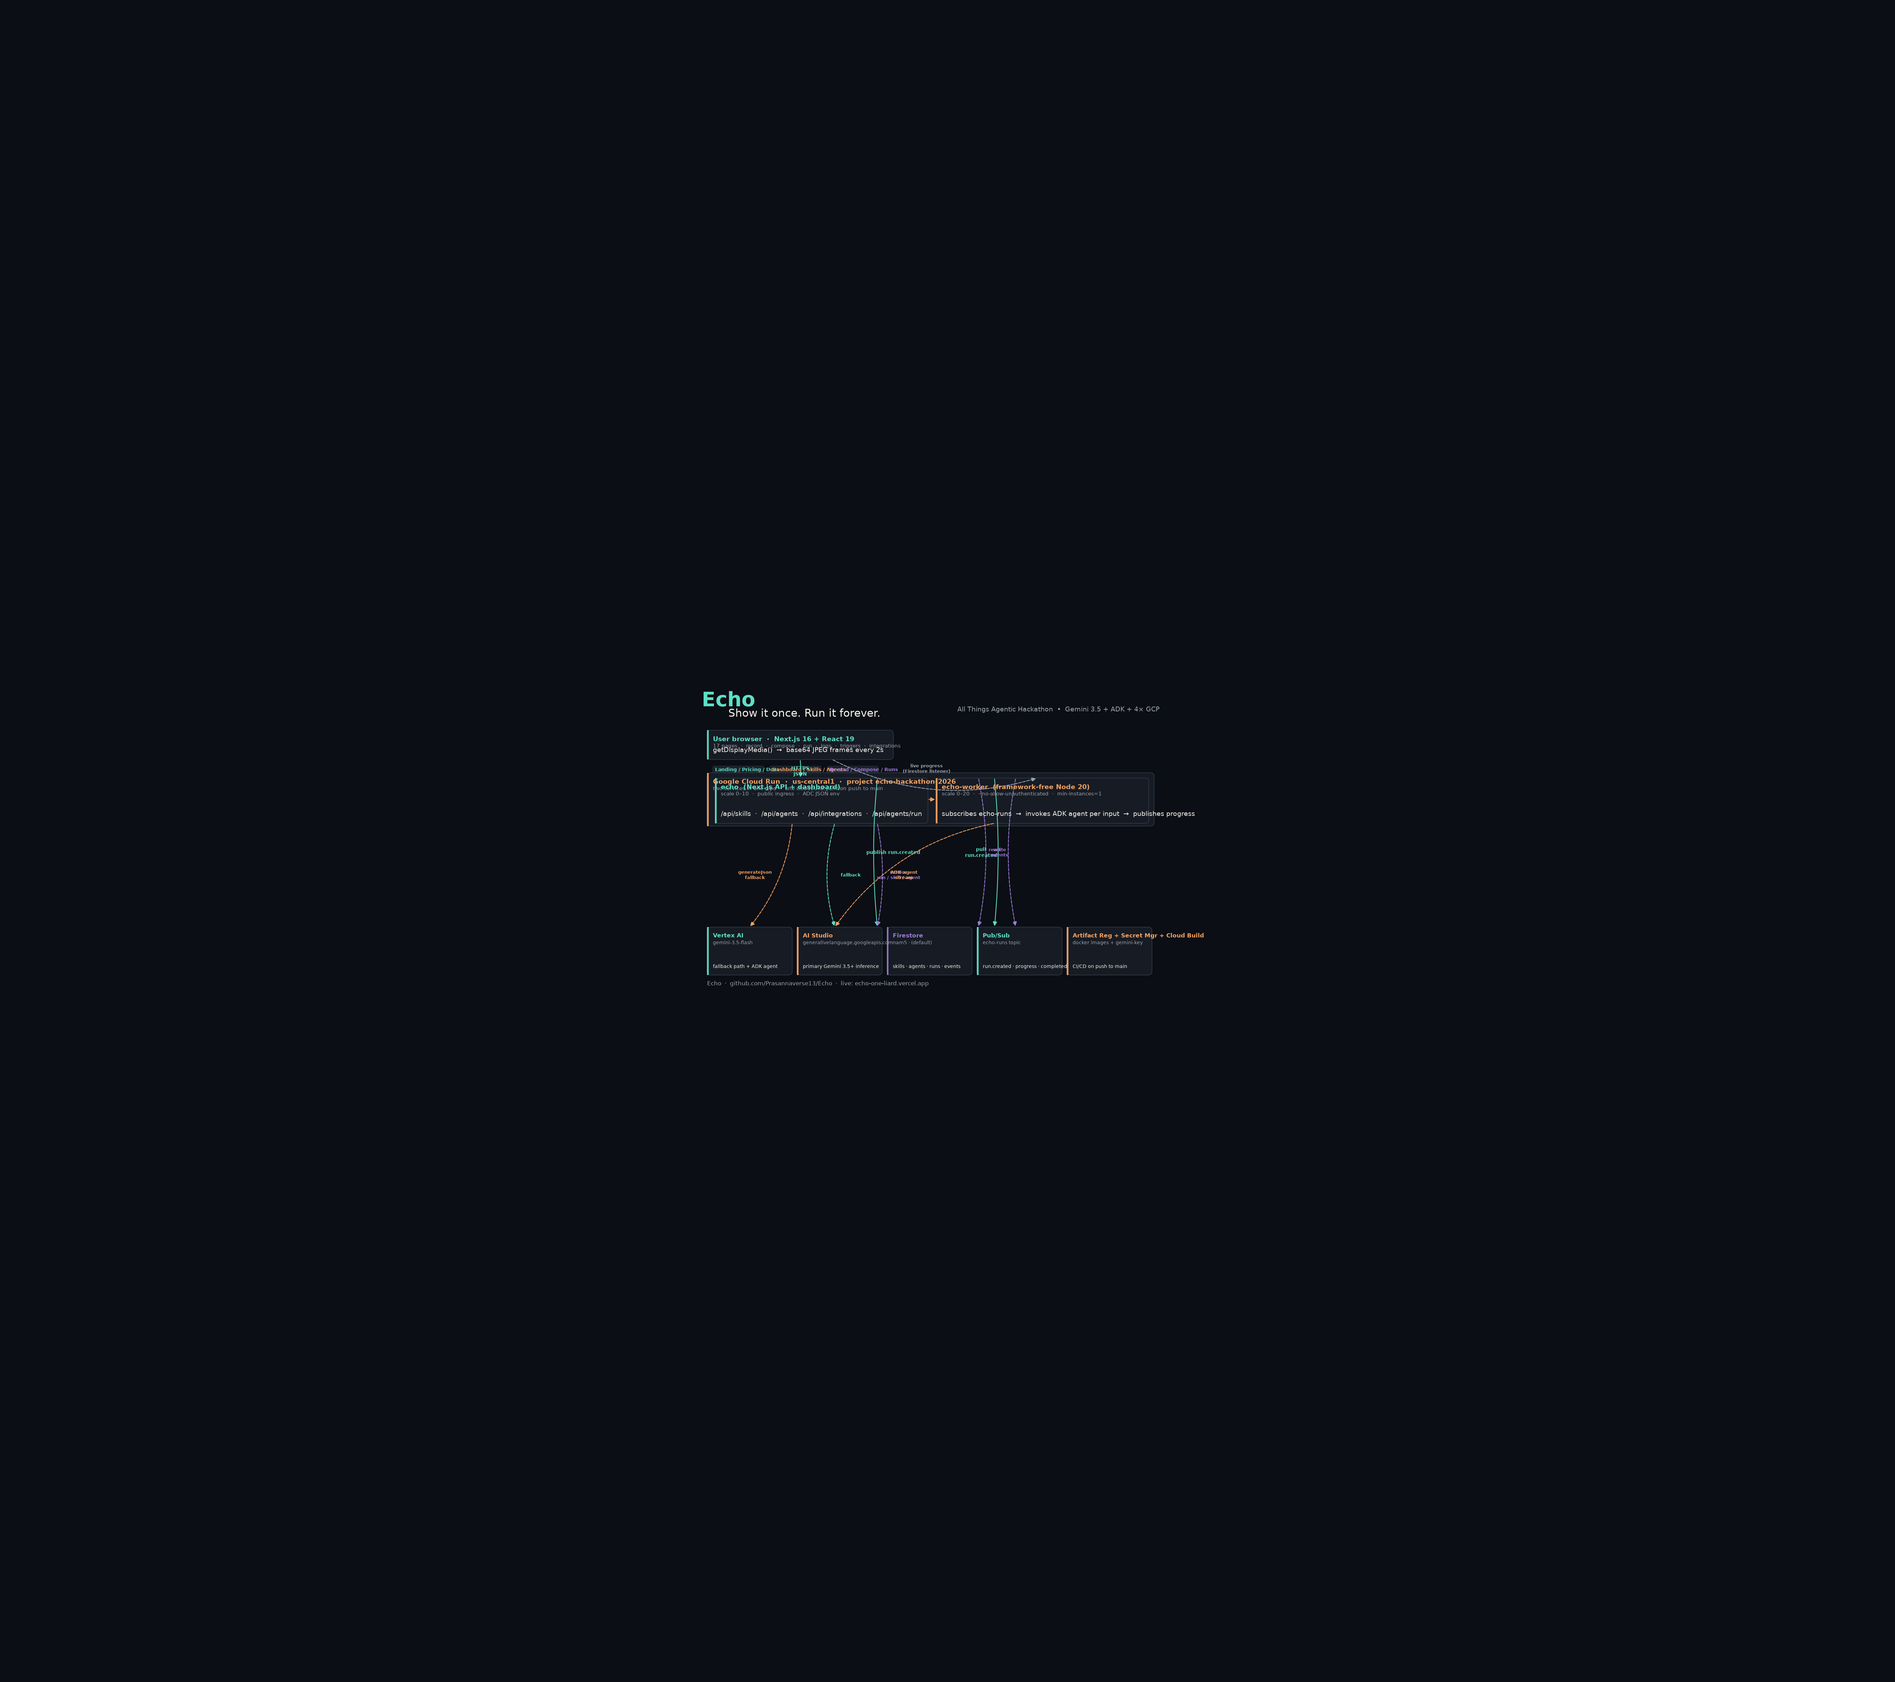
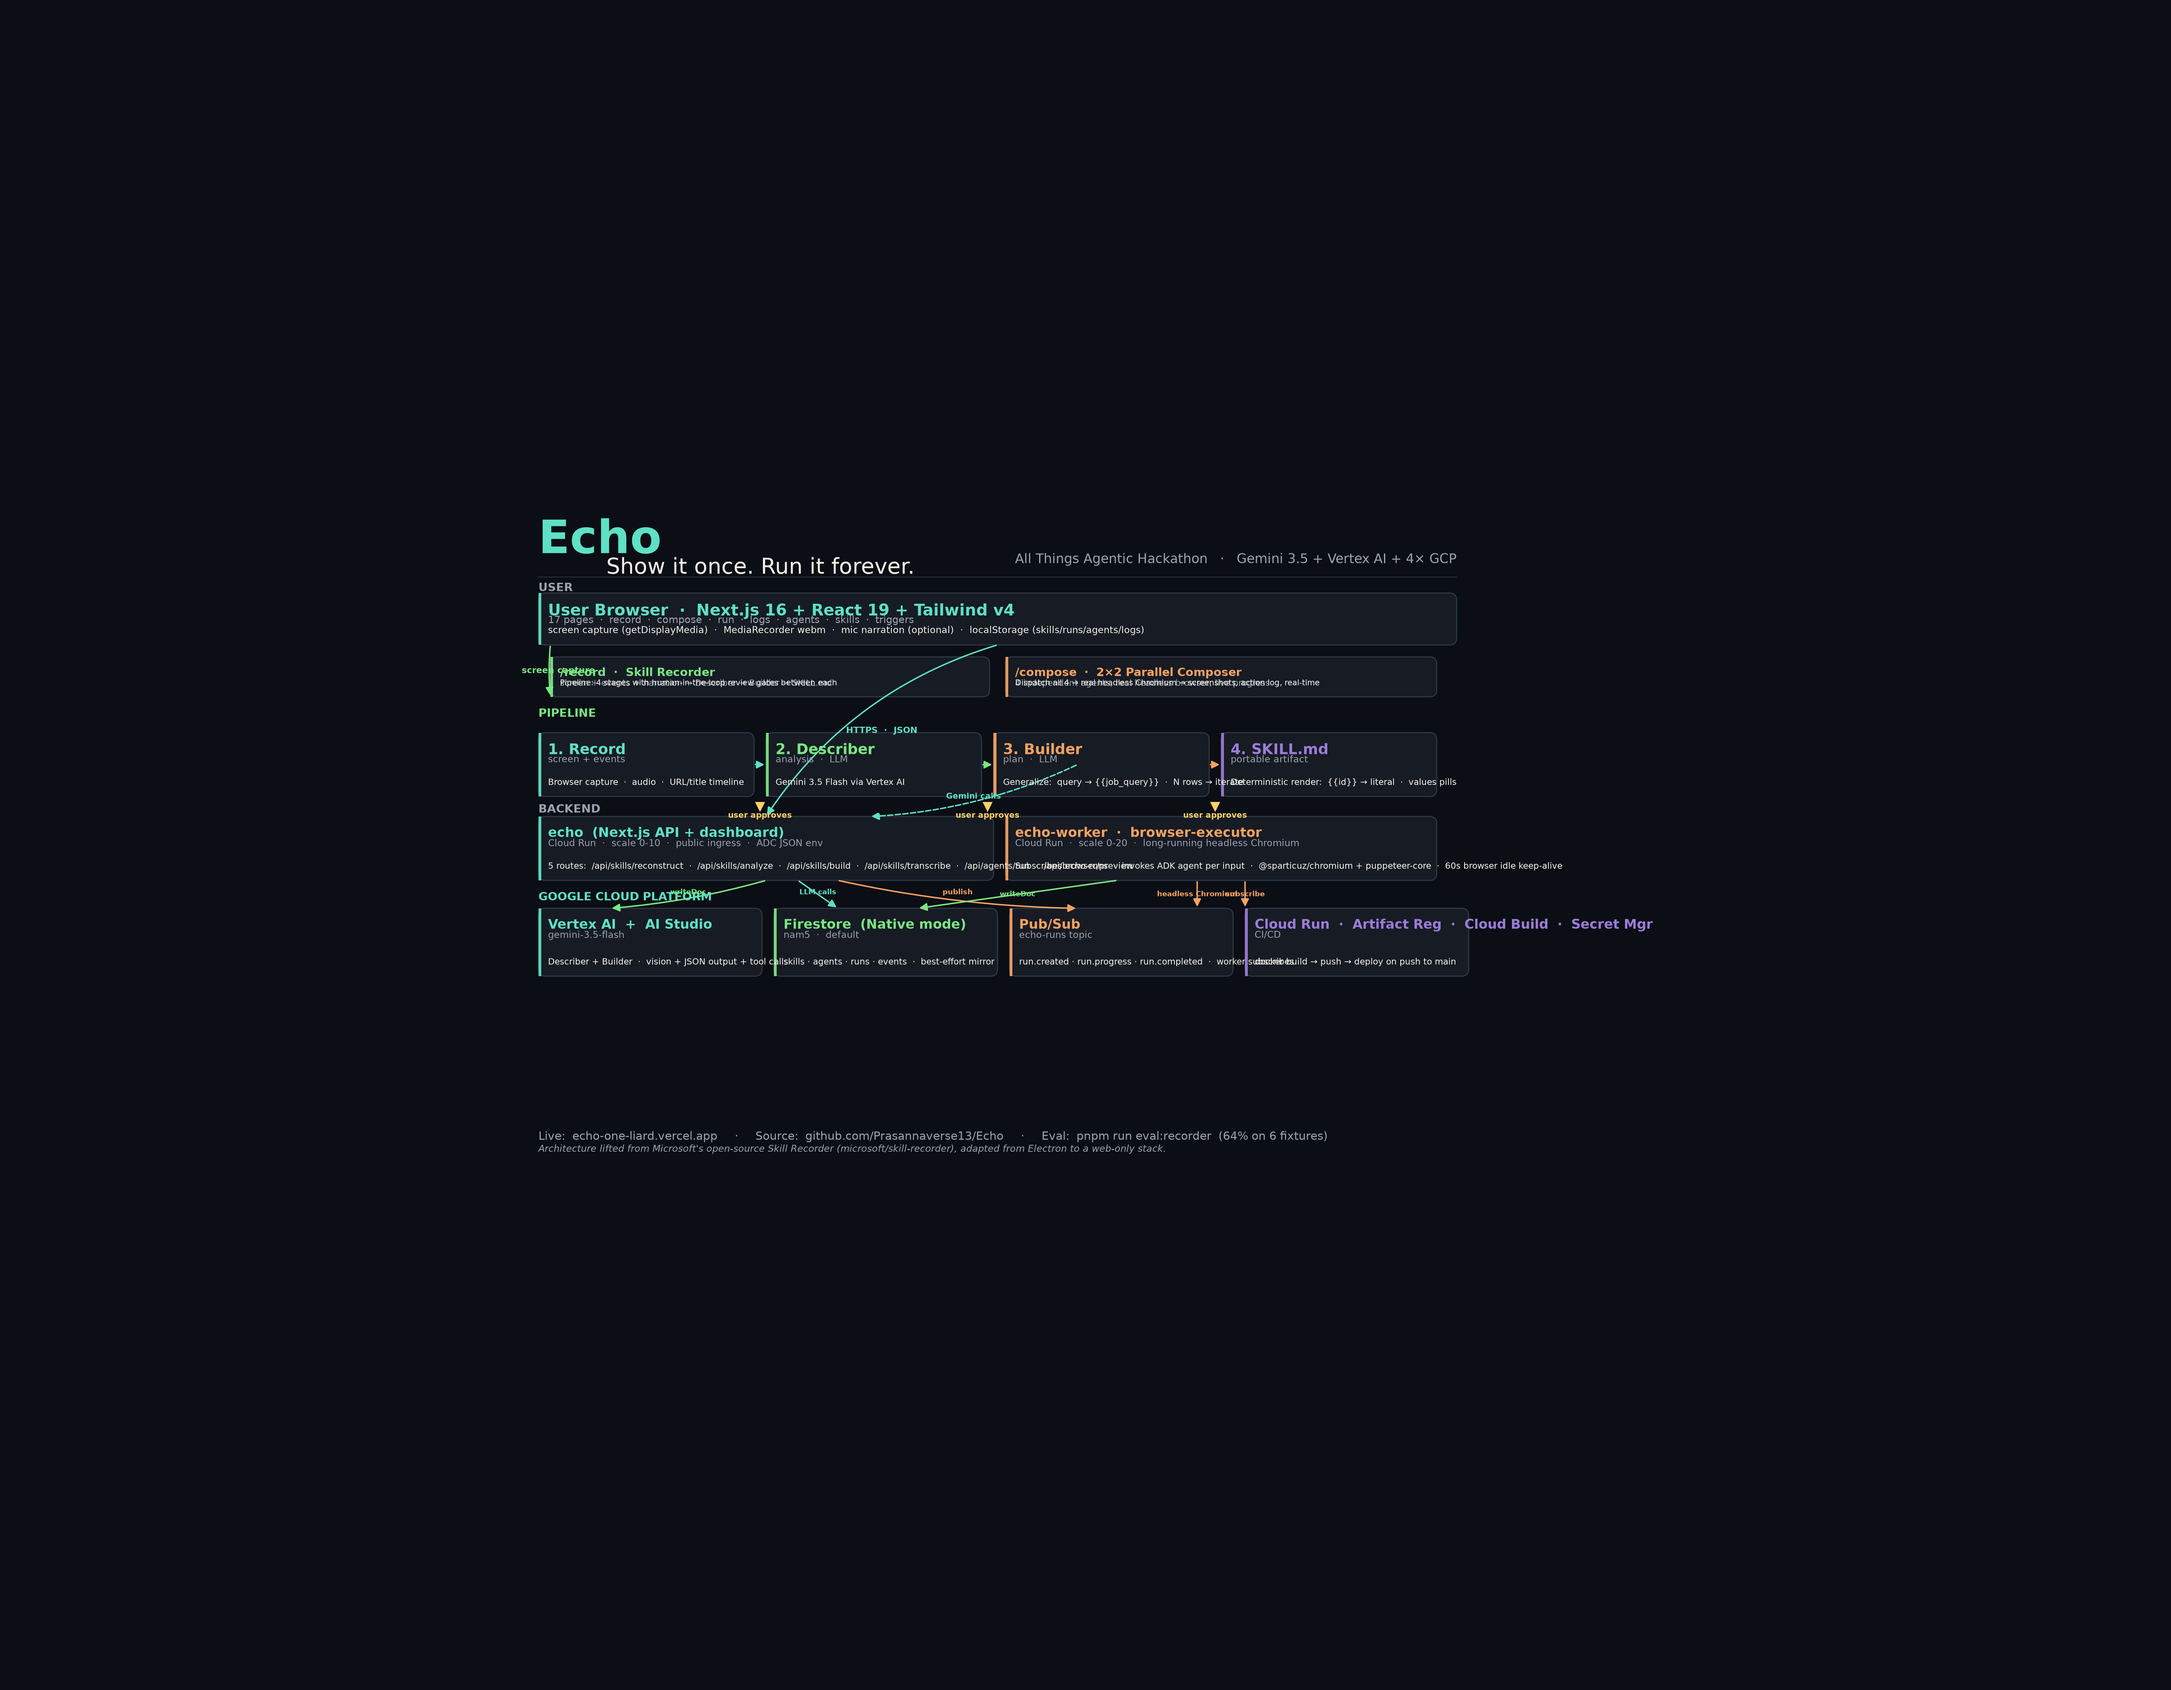
docs(architecture): regenerate diagram with new pipeline + GCP services

diff --git a/scripts/render-architecture-v2.py b/scripts/render-architecture-v2.py
@@ -1,0 +1,282 @@
+"""Render an architecture PNG for Devpost — v2.
+
+Comprehensive diagram showing the full pipeline:
+- User browser (Recorder + Composer)
+- 4-stage MS Skill Recorder pipeline (Record → Describer → Builder → SKILL.md)
+- All GCP services in use (Cloud Run, Firestore, Pub/Sub, Vertex AI)
+- Headless browser worker
+- Data flow
+"""
+from __future__ import annotations
+
+import math
+import os
+import sys
+
+import matplotlib
+matplotlib.use("Agg")
+import matplotlib.pyplot as plt
+import matplotlib.patches as patches
+from matplotlib.patches import FancyArrowPatch, FancyBboxPatch
+
+# ------------------------------------------------------------------
+# Color palette (matches 11x.ai design tokens in globals.css)
+# ------------------------------------------------------------------
+COL_BG       = "#0B0E14"
+COL_CARD     = "#161B24"
+COL_CARD2    = "#1E2632"
+COL_STROKE   = "#2E3744"
+COL_TEXT     = "#F5F1E8"
+COL_MUTED    = "#9BA3B0"
+COL_ACCENT   = "#5EE0C5"  # electric mint
+COL_ACCENT2  = "#F4A261"  # warm coral
+COL_ACCENT3  = "#9D7CD8"  # lavender
+COL_ACCENT4  = "#FFD166"  # gold
+COL_PIPELINE = "#7AE582"  # bright green for the pipeline stages
+
+# ------------------------------------------------------------------
+# Layout: 2400 x 1600 PNG, scales nicely for Devpost
+# ------------------------------------------------------------------
+W, H = 2400, 1600
+fig, ax = plt.subplots(figsize=(W / 100, H / 100), dpi=100)
+ax.set_xlim(0, W)
+ax.set_ylim(0, H)
+ax.set_aspect("equal")
+ax.axis("off")
+fig.patch.set_facecolor(COL_BG)
+ax.set_facecolor(COL_BG)
+
+
+def card(x, y, w, h, title, sub="", accent=COL_ACCENT, body=None,
+         title_size=18, sub_size=12, text_size=12, body_color=COL_TEXT,
+         sub_color=COL_MUTED):
+    box = FancyBboxPatch(
+        (x, y), w, h,
+        boxstyle="round,pad=0.02,rounding_size=18",
+        linewidth=1.6, edgecolor=COL_STROKE, facecolor=COL_CARD,
+    )
+    ax.add_patch(box)
+    stripe = patches.Rectangle(
+        (x, y), 7, h, linewidth=0, facecolor=accent, alpha=0.95
+    )
+    ax.add_patch(stripe)
+    ax.text(
+        x + 24, y + h - 26, title,
+        fontsize=title_size, fontweight="bold", color=accent, va="top", family="DejaVu Sans",
+    )
+    if sub:
+        ax.text(
+            x + 24, y + h - 56, sub,
+            fontsize=sub_size, color=sub_color, va="top", family="DejaVu Sans",
+        )
+    if body:
+        ax.text(
+            x + 24, y + 24, body,
+            fontsize=text_size, color=body_color, va="bottom", family="DejaVu Sans",
+        )
+
+
+def arrow(x1, y1, x2, y2, label="", color=COL_MUTED, style="-|>", curve=0.0,
+         label_offset=(0, 0), font_size=11, dashed=False, label_color=None):
+    rad = curve
+    ls = "--" if dashed else "-"
+    arr = FancyArrowPatch(
+        (x1, y1), (x2, y2),
+        connectionstyle=f"arc3,rad={rad}",
+        arrowstyle=style,
+        mutation_scale=22,
+        linewidth=2.0,
+        color=color,
+        linestyle=ls,
+    )
+    ax.add_patch(arr)
+    if label:
+        mx, my = (x1 + x2) / 2 + label_offset[0], (y1 + y2) / 2 + label_offset[1]
+        ax.text(mx, my, label, fontsize=font_size,
+                color=label_color or color, ha="center", va="center",
+                family="DejaVu Sans", fontweight="bold")
+
+
+# ============================================================
+# Title bar
+# ============================================================
+ax.text(50, H - 50, "Echo", fontsize=64, fontweight="bold", color=COL_ACCENT, family="DejaVu Sans")
+ax.text(220, H - 60, "Show it once. Run it forever.", fontsize=30, color=COL_TEXT, family="DejaVu Sans", va="top")
+ax.text(W - 50, H - 50,
+        "All Things Agentic Hackathon   ·   Gemini 3.5 + Vertex AI + 4× GCP",
+        fontsize=18, color=COL_MUTED, family="DejaVu Sans", ha="right", va="top")
+
+# A subtle horizontal divider
+ax.plot([50, W - 50], [H - 110, H - 110], color=COL_STROKE, linewidth=1.0)
+
+# ============================================================
+# LAYER 1: USER BROWSER  (top, full width)
+# ============================================================
+ax.text(50, H - 145, "USER", fontsize=16, fontweight="bold", color=COL_MUTED, family="DejaVu Sans")
+
+# Main browser card spans full width
+card(
+    50, H - 280, W - 100, 130,
+    "User Browser  ·  Next.js 16 + React 19 + Tailwind v4",
+    "17 pages  ·  record  ·  compose  ·  run  ·  logs  ·  agents  ·  skills  ·  triggers",
+    accent=COL_ACCENT,
+    body="screen capture (getDisplayMedia)  ·  MediaRecorder webm  ·  mic narration (optional)  ·  localStorage (skills/runs/agents/logs)",
+    title_size=22, sub_size=14, text_size=13,
+)
+
+# Two small sub-cards inside: Recorder + Composer
+card(80, H - 410, 1100, 100,
+    "/record  ·  Skill Recorder",
+    "screen + events + narration → Describer → Builder → SKILL.md",
+    accent=COL_PIPELINE,
+    body="Pipeline: 4 stages with human-in-the-loop review gates between each",
+    title_size=16, sub_size=12, text_size=11,
+)
+card(1220, H - 410, W - 1320, 100,
+    "/compose  ·  2×2 Parallel Composer",
+    "4 independent agents, real headless browser, live progress",
+    accent=COL_ACCENT2,
+    body="Dispatch all 4 → real headless Chromium → screenshots, action log, real-time",
+    title_size=16, sub_size=12, text_size=11,
+)
+
+# ============================================================
+# LAYER 2: 4-STAGE PIPELINE (the heart of Echo)
+# ============================================================
+ax.text(50, H - 460, "PIPELINE", fontsize=16, fontweight="bold", color=COL_PIPELINE, family="DejaVu Sans")
+
+# 4 stages
+stage_w = 540
+stage_h = 160
+stage_gap = 30
+stage_y = H - 660
+stage_x_start = 50
+
+stages = [
+    ("1. Record",          "screen + events",        "Browser capture  ·  audio  ·  URL/title timeline",         COL_ACCENT,  "frameBlobs, webm, timeline"),
+    ("2. Describer",        "analysis  ·  LLM",        "Gemini 3.5 Flash via Vertex AI",                              COL_PIPELINE, "intent + steps + confidence"),
+    ("3. Builder",          "plan  ·  LLM",            "Generalize:  query → {{job_query}}  ·  N rows → iterate",   COL_ACCENT2, "tokens + steps + tools"),
+    ("4. SKILL.md",         "portable artifact",       "Deterministic render:  {{id}} → literal  ·  values pills",  COL_ACCENT3, "uploaded to /skills, downloaded"),
+]
+
+for i, (title, sub, body, color, chips) in enumerate(stages):
+    x = stage_x_start + i * (stage_w + stage_gap)
+    card(x, stage_y, stage_w, stage_h,
+         title, sub, accent=color,
+         body=body, title_size=20, sub_size=13, text_size=12)
+    # arrow connector between stages
+    if i < 3:
+        x1 = x + stage_w
+        x2 = x + stage_w + stage_gap
+        arrow(x1, stage_y + stage_h/2, x2, stage_y + stage_h/2,
+              color=color, curve=0.0, font_size=12)
+
+# Pipeline annotations: "Human approves" gates between stages
+for i in range(3):
+    x1 = stage_x_start + (i + 1) * stage_w + i * stage_gap + stage_gap/2
+    x2 = x1
+    ax.text(x1, stage_y - 10, "▼", fontsize=18, color=COL_ACCENT4, ha="center", va="top", family="DejaVu Sans", fontweight="bold")
+    ax.text(x1, stage_y - 38, "user approves", fontsize=11, color=COL_ACCENT4, ha="center", va="top", family="DejaVu Sans", fontweight="bold")
+
+# ============================================================
+# LAYER 3: BACKEND  (Cloud Run services)
+# ============================================================
+ax.text(50, H - 700, "BACKEND", fontsize=16, fontweight="bold", color=COL_MUTED, family="DejaVu Sans")
+
+card(
+    50, H - 870, 1140, 160,
+    "echo  (Next.js API + dashboard)",
+    "Cloud Run  ·  scale 0-10  ·  public ingress  ·  ADC JSON env",
+    accent=COL_ACCENT,
+    body="5 routes:  /api/skills/reconstruct  ·  /api/skills/analyze  ·  /api/skills/build  ·  /api/skills/transcribe  ·  /api/agents/run  ·  /api/browser/preview",
+    title_size=18, sub_size=13, text_size=12,
+)
+card(
+    1220, H - 870, W - 1320, 160,
+    "echo-worker  ·  browser-executor",
+    "Cloud Run  ·  scale 0-20  ·  long-running headless Chromium",
+    accent=COL_ACCENT2,
+    body="Subscribes echo-runs  ·  invokes ADK agent per input  ·  @sparticuz/chromium + puppeteer-core  ·  60s browser idle keep-alive",
+    title_size=18, sub_size=13, text_size=12,
+)
+
+# ============================================================
+# LAYER 4: GCP SERVICES  (4 services used)
+# ============================================================
+ax.text(50, H - 920, "GOOGLE CLOUD PLATFORM", fontsize=16, fontweight="bold", color=COL_ACCENT, family="DejaVu Sans")
+
+gcp_y = H - 1110
+gcp_h = 170
+gcp_w = 560
+gcp_gap = 30
+gcp_x_start = 50
+
+gcp_services = [
+    ("Vertex AI  +  AI Studio",  "gemini-3.5-flash",   "Describer + Builder  ·  vision + JSON output + tool calls",    COL_ACCENT,  "1B token free tier / month"),
+    ("Firestore  (Native mode)",  "nam5  ·  default",  "skills · agents · runs · events  ·  best-effort mirror",          COL_PIPELINE, "localStorage is the source of truth"),
+    ("Pub/Sub",                    "echo-runs topic",   "run.created · run.progress · run.completed  ·  worker subscribes", COL_ACCENT2, "Eventarc + Cloud Run trigger"),
+    ("Cloud Run  ·  Artifact Reg  ·  Cloud Build  ·  Secret Mgr",  "CI/CD",  "docker build → push → deploy on push to main",                  COL_ACCENT3, "2M free requests / month"),
+]
+for i, (name, sub, body, color, chip) in enumerate(gcp_services):
+    x = gcp_x_start + i * (gcp_w + gcp_gap)
+    card(x, gcp_y, gcp_w, gcp_h, name, sub, accent=color,
+         body=body, title_size=18, sub_size=13, text_size=12)
+
+# ============================================================
+# ARROWS — the data flow
+# ============================================================
+
+# User browser → Pipeline (Record)
+arrow(
+    80, H - 280, 80, H - 410,
+    label="screen capture",
+    color=COL_PIPELINE, curve=0.05, label_offset=(20, 0), font_size=12,
+    label_color=COL_PIPELINE,
+)
+
+# Recorder + Composer → echo (Next.js API)
+arrow(
+    1200, H - 280, 620, H - 710,
+    label="HTTPS  ·  JSON",
+    color=COL_ACCENT, curve=0.18, label_offset=(0, 0), font_size=12,
+)
+
+# Pipeline stages 1→2→3→4 — already drawn above as connectors
+
+# Pipeline → echo (API) for the LLM calls
+arrow(
+    1400, H - 580, 880, H - 710,
+    label="Gemini calls",
+    color=COL_ACCENT, curve=-0.10, label_offset=(0, -15), font_size=11,
+    dashed=True,
+)
+
+# echo (API) → GCP services (Firestore, Vertex AI)
+arrow(620, H - 870, 230, H - 940, label="writeDoc", color=COL_PIPELINE, curve=-0.05, label_offset=(0, 5), font_size=10)
+arrow(700, H - 870, 800, H - 940, label="LLM calls", color=COL_ACCENT, curve=0.0, label_offset=(0, 5), font_size=10)
+arrow(800, H - 870, 1400, H - 940, label="publish", color=COL_ACCENT2, curve=0.05, label_offset=(0, 5), font_size=10)
+
+# echo-worker subscribes to Pub/Sub
+arrow(1820, H - 870, 1820, H - 940, label="subscribe", color=COL_ACCENT2, curve=0.0, font_size=10)
+
+# echo-worker → headless browser (browser-executor)
+arrow(1700, H - 870, 1700, H - 940, label="headless Chromium", color=COL_ACCENT2, curve=0.0, font_size=10)
+
+# echo-worker → Firestore (results)
+arrow(1500, H - 870, 1000, H - 940, label="writeDoc", color=COL_PIPELINE, curve=0.0, font_size=10)
+
+# ============================================================
+# FOOTER
+# ============================================================
+ax.text(50, 80,
+        "Live:  echo-one-liard.vercel.app     ·     Source:  github.com/Prasannaverse13/Echo     ·     Eval:  pnpm run eval:recorder  (64% on 6 fixtures)",
+        fontsize=16, color=COL_MUTED, family="DejaVu Sans")
+ax.text(50, 50,
+        "Architecture lifted from Microsoft's open-source Skill Recorder (microsoft/skill-recorder), adapted from Electron to a web-only stack.",
+        fontsize=13, color=COL_MUTED, family="DejaVu Sans", style="italic")
+
+# Save
+out_path = sys.argv[1] if len(sys.argv) > 1 else "docs/architecture.png"
+os.makedirs(os.path.dirname(out_path) or ".", exist_ok=True)
+fig.savefig(out_path, dpi=150, facecolor=COL_BG, bbox_inches="tight", pad_inches=10)
+print(f"WROTE {out_path}")
